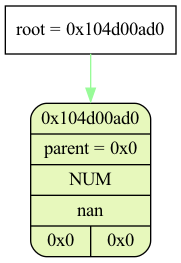
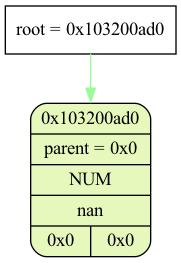
expr ctor and dtor

Changed region(s): [[0.5525, 0.0608, 0.663, 0.1521], [0.4144, 0.4259, 0.5249, 0.4867]]

diff --git a/logs/log.html b/logs/log.html
@@ -1,30 +1,10 @@
 <html>
 <pre>
-int main() at main.cpp(13):
-Tree 0x16d59f3e0 (<span style="color: green">OK</span>) "&tree" at int main() at main.cpp(10):
-{root = 0x104d00bd0}</pre>
+int tree_read_expression(const char *) at ./source/diff.cpp(16):
+Tree 0x1062014c0 (<span style="color: green">OK</span>) "tree" at expr_t *expr_ctor(const char *) at ./source/expr_toks.cpp(27):
+{root = 0x106500bd0}</pre>
 <img src="./images/tree_dump1.png">
-<pre>ERROR: base of power is below or equal zero, 0x104d00bd0</pre><pre>Subtree dump: root = 0x104d00bd0</pre>
-<img src="./images/tree_dump2.png">
 <pre>
-int main() at main.cpp(15):
-Tree 0x16d59f3e0 (<span style="color: green">OK</span>) "&tree" at int main() at main.cpp(10):
-{root = 0x104d00b50}</pre>
-<img src="./images/tree_dump3.png">
-<pre>
-int main() at main.cpp(20):
-Tree 0x16d59f480 (<span style="color: green">OK</span>) "&dtree" at int main() at main.cpp(18):
-{root = 0x104d00b10}</pre>
-<img src="./images/tree_dump4.png">
-<pre>
-int main() at main.cpp(22):
-Tree 0x16d59f480 (<span style="color: green">OK</span>) "&dtree" at int main() at main.cpp(18):
-{root = 0x104d00ad0}</pre>
-<img src="./images/tree_dump5.png">
-<pre>
-Tree 0x16d59f480 "&dtree" at int main() at main.cpp(18): DESTRUCTED
-</pre>
-<pre>
-Tree 0x16d59f3e0 "&tree" at int main() at main.cpp(10): DESTRUCTED
+Tree 0x1062014c0 "tree" at expr_t *expr_ctor(const char *) at ./source/expr_toks.cpp(27): DESTRUCTED
 </pre>
 </html>

diff --git a/include/diff.h b/include/diff.h
@@ -13,20 +13,32 @@ enum mode
 };
 
 //! @brief Return bad value in eval
-const int ERROR = (const int) 0xDEADBEAF;
+const int POISON = (const int) 0xDEADBEAF;
 
 //! @brief Epsilon to compare double variables
 const double EPS = 0.000001;
 
 //! @brief Max lenght of func or variable name
 const int NAME_MAX_LEN = 32;
+const int VARS_MAX_CNT = 32;
+
+//! @brief var_t
+typedef struct
+{
+    char * name;
+    int    type;
+    elem_t value;
+} var_t;
 
 //! @brief Struct to read expression
 typedef struct
 {
-    char * buffer;
-    int    pos;
-} expr_text;
+    char*    buffer;
+    int      pos;
+    int      var_cnt;
+    var_t ** vars;
+    tree_t*  tree;
+} expr_t;                   //changed to expr_t
 
 //! @brief ...
 int tree_print_expression(tree_t * tree, mode print_mode, const char * filename);
@@ -39,7 +51,7 @@ void tree_print_inorder  (tree_node_t * node, FILE * stream);
 //void tree_print_postorder(tree_node_t * node, FILE * stream);
 
 //! @brief ...
-int tree_read_expression(tree_t * tree, mode read_mode, const char * filename);
+int tree_read_expression(const char * filename);
 
 //! @brief ...
 tree_node_t * tree_read_preorder(char * buffer, int * pos);
@@ -70,38 +82,38 @@ tree_node_t * diff(tree_node_t * node);
 //-------------------------Get-part------------------------------
 
 //! @brief Get funcs
-tree_node_t * getG(expr_text * expr);
-tree_node_t * getN(expr_text * expr);
-tree_node_t * getE(expr_text * expr);
-tree_node_t * getT(expr_text * expr);
-tree_node_t * getP(expr_text * expr);
-tree_node_t * getD(expr_text * expr);
+tree_node_t * getG(expr_t* expr);
+tree_node_t * getN(expr_t* expr);
+tree_node_t * getE(expr_t* expr);
+tree_node_t * getT(expr_t* expr);
+tree_node_t * getP(expr_t* expr);
+tree_node_t * getD(expr_t* expr);
 //! @brief Get Func or variable (varibles are only one-letter)
-tree_node_t * getW(expr_text * expr);
+tree_node_t * getW(expr_t* expr);
 
 //! @brief Func to read name of function or variable
 //! @param [in] expr - ptr to expression struct
 //! @return ptr to name (must be freed after using)
-char * read_name(expr_text * expr);
+char * read_name(expr_t* expr);
 
 //-----------------------Simplify-part----------------------------
 
 //! @brief Func what count subtrees without variables
 //! @param [in] node - ptr to start node
 //! @return ptr to simplified subtree
-void tree_eval_simplify(tree_node_t ** node);
+void tree_eval_simplify(tree_node_t** node);
 
 //! @brief Func what remove *1, /1, ˆ1, *0, ˆ0, 0ˆ, 1ˆ and count subtrees without variables
 //! @param [in] node - ptr to start node
 //! @param [in] tree - ptr to tree, it used to change 'simplify'
 //! variable to check if tree stop changing and we must stop simplifying
 //! @return ptr to simplified subtree
-void tree_simplify(tree_t * tree, tree_node_t ** node);
+void tree_simplify(tree_t* tree, tree_node_t ** node);
 
 //! @brief Func what check if there are variables in subtree
 //! @param [in] node - ptr to node
 //! @return 1 - there is(are) var(s), 0 - else
-int have_var(tree_node_t * node);
+int have_var(tree_node_t* node);
 
 //! @brief ...
 void right_instead_node(tree_t * tree, tree_node_t ** node);
@@ -114,5 +126,9 @@ void num_instead_node(tree_t * tree, tree_node_t ** node, elem_t num);
 
 //! @brief ...
 void neg_instead_node(tree_t * tree, tree_node_t ** node);
+
+expr_t* expr_ctor(const char* filename);
+char* read_buffer(FILE* stream);
+int expr_dtor(expr_t* expr);
 
 #endif

diff --git a/source/get.cpp b/source/get.cpp
@@ -3,7 +3,7 @@
 #include "../include/diff.h"
 #include "../include/dsl.h"
 
-tree_node_t * getG(expr_text * expr)
+tree_node_t * getG(expr_t * expr)
 {
     tree_node_t * val = getE(expr);
 
@@ -16,7 +16,7 @@ tree_node_t * getG(expr_text * expr)
     return val;
 }
 
-tree_node_t * getE(expr_text * expr)
+tree_node_t * getE(expr_t * expr)
 {
     tree_node_t * val = getT(expr);
     while (expr->buffer[expr->pos] == '+' || expr->buffer[expr->pos] == '-')
@@ -30,7 +30,7 @@ tree_node_t * getE(expr_text * expr)
     return val;
 }
 
-tree_node_t * getT(expr_text * expr)
+tree_node_t * getT(expr_t * expr)
 {
     tree_node_t * val = getD(expr);
     while (expr->buffer[expr->pos] == '*'|| expr->buffer[expr->pos] == '/')
@@ -52,7 +52,7 @@ tree_node_t * getT(expr_text * expr)
     return val;
 }
 
-tree_node_t * getD(expr_text * expr)
+tree_node_t * getD(expr_t * expr)
 {
     tree_node_t * val = getP(expr);
 
@@ -65,7 +65,7 @@ tree_node_t * getD(expr_text * expr)
     return val;
 }
 
-tree_node_t * getP(expr_text * expr)
+tree_node_t * getP(expr_t * expr)
 {
     if (expr->buffer[expr->pos] == '(')
     {
@@ -86,7 +86,7 @@ tree_node_t * getP(expr_text * expr)
         return getW(expr);
 }
 
-tree_node_t * getW(expr_text * expr)
+tree_node_t * getW(expr_t * expr)
 {
     char * name = read_name(expr);
 
@@ -115,11 +115,14 @@ tree_node_t * getW(expr_text * expr)
     }
     char var_name = name[0];
     free(name);
+    // expr->vars[expr->var_cnt] = (var_t *) calloc(1, sizeof(var_t));
+    // expr->vars[expr->var_cnt]->name = name;
+    // expr->vars[expr->var_cnt]->value = NAN;
 
     return VAR(var_name);
 }
 
-tree_node_t * getN(expr_text * expr)
+tree_node_t * getN(expr_t * expr)
 {
     double val = 0;
     int saved_p = expr->pos;
@@ -161,7 +164,7 @@ tree_node_t * getN(expr_text * expr)
     return NUM(ret_val);
 }
 
-char * read_name(expr_text * expr)
+char * read_name(expr_t * expr)
 {
     char * name = (char *) calloc(NAME_MAX_LEN, sizeof(char));
     int i = 0;

diff --git a/source/diff.cpp b/source/diff.cpp
@@ -4,40 +4,14 @@
 #include "../include/dsl.h"
 
 
-int tree_read_expression(tree_t * tree, mode read_mode, const char * filename)
+int tree_read_expression(const char* filename)
 {
-    FILE * fp = fopen(filename, "r");
+    expr_t* expr = expr_ctor(filename);
 
-    if (fp == NULL)
-    {
-        fprintf(log_file, "<pre>Can't open file \"%s\" for read tree</pre>\n", filename);
-        return 1;
-    }
+    ASSERT(expr);
 
-    expr_text * expr = (expr_text *) calloc(1, sizeof(expr_text));
+    expr_dtor(expr);
 
-    fseek(fp, 0L, SEEK_END);
-    size_t filesize = (size_t) ftell(fp);
-    rewind(fp);
-
-    expr->buffer = (char *) calloc(filesize + 1, sizeof(char));
-    fread(expr->buffer, sizeof(char), filesize, fp);
-    *(expr->buffer + filesize) = '\0';
-
-    if (read_mode == PRE)
-    {
-        int pos = 0;
-        link_root(tree, tree_read_preorder(expr->buffer, &pos));
-    }
-    else if (read_mode == IN)
-    {
-        link_root(tree, getG(expr));
-    }
-    else
-        fprintf(log_file, "<pre>%d read mode doesn't exist\n</pre>", read_mode);
-
-    free(expr->buffer);
-    free(expr);
     return 0;
 }
 
@@ -93,7 +67,11 @@ double eval(const tree_node_t * node)
         return NAN;
     }
     if (node->type == TYPE_NUM)
+    {
+        if (!isfinite(node->value))
+            return NAN;
         return node->value;
+    }
 
     switch (node->type)
     {
@@ -154,7 +132,7 @@ tree_node_t * diff(tree_node_t * node)
     {
         case TYPE_NUM:
         {
-            if (!isfinite(NAN))
+            if (!isfinite(node->value))
                 return NUM(NAN);
             return NUM(0);
         }

diff --git a/source/expr_toks.cpp b/source/expr_toks.cpp
@@ -1,0 +1,72 @@
+#include "../include/tree.h"
+#include "../include/tree_debug.h"
+#include "../include/diff.h"
+#include "../include/dsl.h"
+
+
+expr_t* expr_ctor(const char* filename)
+{
+    ASSERT(filename);
+
+    FILE * fp = fopen(filename, "r");
+
+    if (fp == NULL)
+    {
+        fprintf(log_file, "<pre>Can't open file \"%s\" for read tree</pre>\n", filename);
+        return NULL;
+    }
+
+    expr_t* expr = (expr_t*) calloc(1, sizeof(expr_t));
+
+    expr->buffer = read_buffer(fp);
+    expr->pos = 0;
+    expr->var_cnt = 0;
+    expr->vars = (var_t**) calloc(VARS_MAX_CNT, sizeof(var_t*));
+
+    tree_t* tree = (tree_t*) calloc(1, sizeof(tree_t));
+    tree_ctor(tree);
+
+    expr->tree = tree;
+
+    link_root(expr->tree, getG(expr));
+
+    tree_dump(expr->tree);
+
+    return expr;
+}
+
+char* read_buffer(FILE* stream)
+{
+    ASSERT(stream);
+
+    fseek(stream, 0L, SEEK_END);
+    size_t filesize = (size_t) ftell(stream);
+    rewind(stream);
+
+    char* buffer = (char*) calloc(filesize + 1, sizeof(char));
+    fread(buffer, sizeof(char), filesize, stream);
+    *(buffer + filesize) = '\0';
+
+    return buffer;
+}
+
+int expr_dtor(expr_t* expr)
+{
+    ASSERT(expr);
+
+    free(expr->buffer);
+
+    for (int i = 0; i < expr->var_cnt; i++)
+    {
+        free(expr->vars[i]->name);
+        free(expr->vars[i]);
+    }
+
+    expr->var_cnt = POISON;
+    expr->pos = POISON;
+    free(expr->vars);
+
+    tree_dtor(expr->tree);
+
+    return STATUS_OK;
+}

diff --git a/main.cpp b/main.cpp
@@ -6,24 +6,9 @@
 int main(void)
 {
     open_log_file();
-    tree_t tree = {};
-    tree_ctor(&tree);
 
-    tree_read_expression(&tree, IN, "./expr.txt");
-    tree_dump(&tree);
-    tree_simplify(&tree, &tree.root);
-    tree_dump(&tree);
+    tree_read_expression("./expr.txt");
 
-    tree_t dtree = {};
-    tree_ctor(&dtree);
-    dtree.root = diff(tree.root);
-    tree_dump(&dtree);
-    tree_simplify(&dtree, &dtree.root);
-    tree_dump(&dtree);
-    tree_print_expression(&dtree, IN, "./expr_print.txt");
-
-    tree_dtor(&dtree);
-    tree_dtor(&tree);
     close_log_file();
     return 0;
 }
